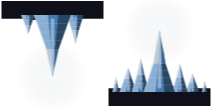
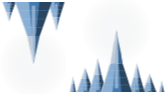
flytunl.ch strip: a small run simulation - planned hops, gold coins, score; crystals sit on the wall
- Autopilot taps like the game's tap tutor (a hop is due when one started now would top out on
  the route); the route crosses to the far side of every crystal through a line of three coins.
  Node sim, 2 min at 1000x170 and 390x140: tip clearance >= 27 px, every coin taken, no wall.
- Gold coin rendered by drawCoin; taken coins ring out; score = distance/60 + coins.
- Crystals: no rock socket in the sprite, sheared to the wall slope, clipped to the corridor.

diff --git a/flytunl-site/home.src.html b/flytunl-site/home.src.html
@@ -1080,7 +1080,7 @@
        plus a floor druse per weekday in that day's palette and crystal material. Regenerate
        with `node branding/render-feel-sprites.mjs`; it rewrites the map below. */
     /* BEGIN feel sprites: branding/render-feel-sprites.mjs (do not hand-edit) */
-    var FEEL = {"ship":{"cell":0,"r":36,"nozzleX":-0.98,"nozzleY":[0.20754483839984453,-0.1606571029811316]},"days":[{"mat":"Kalzit","top":1,"bot":2},{"mat":"Rostquarz","top":3,"bot":4},{"mat":"Selenit","top":5,"bot":6},{"mat":"Obsidian","top":7,"bot":8},{"mat":"Amethyst","top":9,"bot":10},{"mat":"Olivin","top":11,"bot":12},{"mat":"Rhodonit","top":13,"bot":14}],"cells":[[0,0,0,103,102,50.39999999999999,51],[1,0,0,105,107,52.5,17],[1,107,0,105,107,52.5,90],[2,0,0,105,107,52.5,17],[2,107,0,105,107,52.5,90],[3,0,0,105,107,52.5,17],[3,107,0,105,107,52.5,90],[4,0,0,105,107,52.5,17],[4,107,0,105,107,52.5,90],[5,0,0,105,107,52.5,17],[5,107,0,105,107,52.5,90],[6,0,0,105,107,52.5,17],[6,107,0,105,107,52.5,90],[7,0,0,105,107,52.5,17],[7,107,0,105,107,52.5,90]],"hw":15,"len":60};
+    var FEEL = {"ship":{"cell":0,"r":36,"nozzleX":-0.98,"nozzleY":[0.20754483839984453,-0.1606571029811316]},"days":[{"mat":"Kalzit","top":2,"bot":3},{"mat":"Rostquarz","top":4,"bot":5},{"mat":"Selenit","top":6,"bot":7},{"mat":"Obsidian","top":8,"bot":9},{"mat":"Amethyst","top":10,"bot":11},{"mat":"Olivin","top":12,"bot":13},{"mat":"Rhodonit","top":14,"bot":15}],"coin":{"cell":1,"s":16},"cells":[[0,0,0,103,102,50.39999999999999,51],[0,105,0,62,62,31,31],[1,0,0,66,94,33.5,4],[1,68,0,98,94,48.5,90],[2,0,0,65,94,32.5,4],[2,67,0,98,94,48.5,90],[3,0,0,66,94,33.5,4],[3,68,0,98,94,49.5,90],[4,0,0,67,94,33.5,4],[4,69,0,98,94,48.5,90],[5,0,0,66,94,33.5,4],[5,68,0,98,94,49.5,90],[6,0,0,65,94,32.5,4],[6,67,0,98,94,49.5,90],[7,0,0,66,94,32.5,4],[7,68,0,98,94,49.5,90]],"hw":15,"len":60};
     /* END feel sprites */
     /* Monday first, like weekdayIndex() and day.js; the page loads only today's crystals */
     var WD = (new Date().getUTCDay() + 6) % 7, DAY = FEEL ? FEEL.days[WD] : null;
@@ -1092,11 +1092,14 @@
       im.src = url;
       imgs[g] = im;
     }
-    if (FEEL) { want(0, '/media-ships/feel-ship.png?v=1'); want(WD + 1, '/media-ships/feel-day-' + WD + '.png?v=1'); }
-    function blit(cell, x, y, s) {
+    if (FEEL) { want(0, '/media-ships/feel-ship.png?v=3'); want(WD + 1, '/media-ships/feel-day-' + WD + '.png?v=3'); }
+    /* k shears the sprite vertically along a sloped wall, like the game's own fit
+       (src/draw.js _xtalFit X.k): every root moves with the wall, every crystal stays upright. */
+    function blit(cell, x, y, s, k) {
       var c = FEEL.cells[cell];          /* [image, x, y, w, h, anchorX, anchorY] */
       ctx.save();
       ctx.translate(x, y);
+      if (k) ctx.transform(1, k, 0, 1, 0, 0);
       ctx.scale(s, s);
       ctx.drawImage(imgs[c[0]], c[1], c[2], c[3], c[4], -c[5], -c[6], c[3], c[4]);
       ctx.restore();
@@ -1123,8 +1126,9 @@
     }
     var halfGap = function () { return H * 0.30; };
 
-    var scroll = 0, py = 0, vy = 0, holding = false, lastLit = null, lastDodge = null;
+    var scroll = 0, py = 0, vy = 0, burst = 0, holding = false, lastLit = null, lastDodge = null;
     var SCROLL_SPD = 96;                 /* px/s of cave sliding past */
+    var TAP_BURST = 0.15;                /* TAP_BURST_SEC: every press is a hop */
 
     /* hazards on screen right now, shared by step() (to light DODGE) and draw()
        (to render the spikes), so the two never fall out of sync. */
@@ -1138,29 +1142,93 @@
         var c = centre(hz.x), len = g * 0.55;
         var baseY = hz.top ? c - g : c + g;
         var tipY = hz.top ? baseY + len : baseY - len;
-        out.push({ sx: sx, top: hz.top, baseY: baseY, tipY: tipY });
+        /* the wall's slope under the spike (both walls run parallel to the centreline) */
+        var slope = (centre(hz.x + 6) - centre(hz.x - 6)) / 12;
+        out.push({ sx: sx, top: hz.top, baseY: baseY, tipY: tipY, k: slope });
       }
       return out;
+    }
+
+    /* ---- a small simulation of a run ----
+       The route, like the game's tap tutor (src/approach.js tutorRouteY): past every crystal
+       an avoidance point on the far side, and between two crystals a line of three gold
+       coins that IS the crossing from one side to the other - the coins teach the line. */
+    var COIN_DX = 24, AVOID = 0.36, COIN_SWING = 0.22;
+    function coinsAt(k) {                /* the three coins between crystal k-1 and crystal k */
+      var x0 = k * HAZ_SPACING, from = hazardAt(k - 1).top ? 1 : -1, out = [];
+      for (var j = -1; j <= 1; j++) {
+        var x = x0 + j * COIN_DX;
+        out.push({ key: k * 3 + j + 1, x: x, y: centre(x) + from * COIN_SWING * halfGap() * -j });
+      }
+      return out;
+    }
+    function routeY(x) {                 /* the line the autopilot wants to be on at world-x */
+      var k = Math.floor(x / HAZ_SPACING), g = halfGap();
+      var h = hazardAt(k), pts = [];
+      /* avoidance points of crystals k-1, k and k+1, coins of the gaps k and k+1, in x order */
+      [hazardAt(k - 1), h, hazardAt(k + 1)].forEach(function (hz) {
+        pts.push([hz.x, centre(hz.x) + (hz.top ? 1 : -1) * AVOID * g]);
+      });
+      coinsAt(k).concat(coinsAt(k + 1)).forEach(function (cn) { pts.push([cn.x, cn.y]); });
+      pts.sort(function (p, q) { return p[0] - q[0]; });
+      for (var i = 1; i < pts.length; i++) {
+        if (x <= pts[i][0]) {
+          var t = (x - pts[i - 1][0]) / (pts[i][0] - pts[i - 1][0]);
+          t = t * t * (3 - 2 * t);       /* ease, so the line has no corners to chase */
+          return pts[i - 1][1] + (pts[i][1] - pts[i - 1][1]) * t;
+        }
+      }
+      return centre(x);
+    }
+
+    var taken = {}, sparks = [], coinCount = 0;
+    function physics(state, dt, scale) {  /* one step of update.js's ship: burst, cap, trapezoid */
+      var thrust = state.b > 0;
+      var vPrev = state.v;
+      state.v += (thrust ? -1800 : 1300) * scale * dt;
+      var cap = 1080 * scale;
+      if (state.v >  cap) state.v =  cap;
+      if (state.v < -cap) state.v = -cap;
+      state.y += (vPrev + state.v) * 0.5 * dt;
+      if (thrust) state.b = Math.max(0, state.b - dt);
+    }
+    /* The tutor's rule (src/approach.js tutorPlan): a tap is due when a hop started now
+       would top out ON the route, not above it. Run the real physics forward to find out. */
+    function tapDue(scale, shipX) {
+      var st = { y: py, v: vy, b: TAP_BURST }, t = 0, dt = 1 / 120;
+      while (t < 0.8) {
+        physics(st, dt, scale); t += dt;
+        if (st.b <= 0 && st.v >= 0) break;          /* apex */
+      }
+      return st.y >= routeY(shipX + t * SCROLL_SPD);
     }
 
     function step(dt) {
       var scale = H / 440;               /* _FEEL_SCALE */
       scroll += SCROLL_SPD * dt;
+      var px = W * 0.22, shipX = scroll + px;
 
-      /* autopilot: aim a little ahead of the ship, hold when below the line */
-      var aim = centre(scroll + W * 0.34);
-      holding = py > aim;
+      if (burst <= 0 && tapDue(scale, shipX)) burst = TAP_BURST;
+      var st = { y: py, v: vy, b: burst };
+      physics(st, dt, scale);
+      py = st.y; vy = st.v; burst = st.b;
+      holding = burst > 0;
 
-      var vPrev = vy;
-      vy += (holding ? -1800 : 1300) * scale * dt;
-      var cap = 1080 * scale;
-      if (vy >  cap) vy =  cap;
-      if (vy < -cap) vy = -cap;
-      py += (vPrev + vy) * 0.5 * dt;     /* trapezoid, same as update.js */
-
-      var c = centre(scroll + W * 0.22), g = halfGap();
+      var c = centre(shipX), g = halfGap();
       if (py < c - g + 6) { py = c - g + 6; if (vy < 0) vy = 0; }
       if (py > c + g - 6) { py = c + g - 6; if (vy > 0) vy = 0; }
+
+      /* coins: picked up inside the ship's radius, like the game's hitbox */
+      var r = Math.max(9, H * 0.085), k = Math.floor(shipX / HAZ_SPACING);
+      for (var kk = k; kk <= k + 1; kk++) {
+        coinsAt(kk).forEach(function (cn) {
+          if (taken[cn.key] || Math.abs(cn.x - shipX) > r * 1.2 || Math.abs(cn.y - py) > r * 1.2) return;
+          taken[cn.key] = true; coinCount++;
+          sparks.push({ x: cn.x, y: cn.y, t: 0 });
+        });
+      }
+      for (var key in taken) if (key < (k - 2) * 3) delete taken[key];
+      sparks = sparks.filter(function (sp) { sp.t += dt; return sp.t < 0.35; });
 
       if (holding !== lastLit) {
         lastLit = holding;
@@ -1168,7 +1236,7 @@
         if (fallBox) fallBox.classList.toggle('lit', !holding);
       }
 
-      var px = W * 0.22, dodgeWindow = Math.max(24, H * 0.09);
+      var dodgeWindow = Math.max(24, H * 0.09);
       var dodging = visibleHazards().some(function (h) { return Math.abs(h.sx - px) < dodgeWindow; });
       if (dodging !== lastDodge) {
         lastDodge = dodging;
@@ -1203,11 +1271,21 @@
       /* stalactites/stalagmites - a wall spike per hazardAt(), lit like a crystal
          edge so DODGE has something on screen to react to. */
       var haz = visibleHazards();
+      /* crystals live in the corridor: clip at the wall line, so their roots end exactly
+         on a curved, sloped wall instead of floating over it or poking into the rock */
+      ctx.save();
+      if (sheetOk) {
+        ctx.beginPath();
+        for (i = 0; i <= N; i++) { x = i * 6; ctx[i ? 'lineTo' : 'moveTo'](x, centre(scroll + x) - halfGap()); }
+        for (i = N; i >= 0; i--) { x = i * 6; ctx.lineTo(x, centre(scroll + x) + halfGap()); }
+        ctx.closePath();
+        ctx.clip();
+      }
       for (var hi = 0; hi < haz.length; hi++) {
         var h = haz[hi], halfW = Math.max(7, H * 0.045);
         if (sheetOk) {
           /* the crystal's length matches the spike's, so DODGE keeps its timing */
-          blit(h.top ? DAY.top : DAY.bot, h.sx, h.baseY, Math.abs(h.tipY - h.baseY) / FEEL.len);
+          blit(h.top ? DAY.top : DAY.bot, h.sx, h.baseY, Math.abs(h.tipY - h.baseY) / FEEL.len, h.k);
           continue;
         }
         ctx.beginPath();
@@ -1221,10 +1299,31 @@
         ctx.lineWidth = 1.2;
         ctx.stroke();
       }
+      ctx.restore();
 
       ctx.strokeStyle = rgb(0.55);
       ctx.lineWidth = 1.4;
       for (var ei = 0; ei < edges.length; ei++) ctx.stroke(edges[ei]);
+
+      /* gold coins (src/draw.js drawCoin), and a ring where one was taken */
+      var cs = Math.max(4, H * 0.036);
+      var kc0 = Math.floor(scroll / HAZ_SPACING), kc1 = Math.ceil((scroll + W) / HAZ_SPACING) + 1;
+      for (var kc = kc0; kc <= kc1; kc++) {
+        coinsAt(kc).forEach(function (cn) {
+          var sx = cn.x - scroll;
+          if (taken[cn.key] || sx < -20 || sx > W + 20) return;
+          if (sheetOk) { blit(FEEL.coin.cell, sx, cn.y, cs / FEEL.coin.s); return; }
+          ctx.fillStyle = 'rgb(255,225,50)';
+          ctx.beginPath(); ctx.moveTo(sx, cn.y - cs); ctx.lineTo(sx + cs * 0.7, cn.y);
+          ctx.lineTo(sx, cn.y + cs); ctx.lineTo(sx - cs * 0.7, cn.y); ctx.closePath(); ctx.fill();
+        });
+      }
+      sparks.forEach(function (sp) {
+        var u = sp.t / 0.35;
+        ctx.strokeStyle = 'rgba(255,225,50,' + (0.8 * (1 - u)).toFixed(3) + ')';
+        ctx.lineWidth = 1.5;
+        ctx.beginPath(); ctx.arc(sp.x - scroll, sp.y, cs * (1 + u * 1.6), 0, Math.PI * 2); ctx.stroke();
+      });
 
       /* ship, pitched by climb rate like the real one */
       var px = W * 0.22, r = Math.max(9, H * 0.085);
@@ -1259,6 +1358,12 @@
         ctx.fill();
       }
       ctx.restore();
+
+      /* score like the game's: distance (one point per 60 px) plus the coins */
+      ctx.font = '600 ' + Math.round(Math.max(11, H * 0.08)) + 'px "JetBrains Mono", monospace';
+      ctx.textBaseline = 'top';
+      ctx.fillStyle = 'rgba(255,255,255,0.85)';
+      ctx.fillText(String(Math.floor(scroll / 60) + coinCount), 12, 10);
     }
 
     var last = 0, running = false, rafId = 0;
